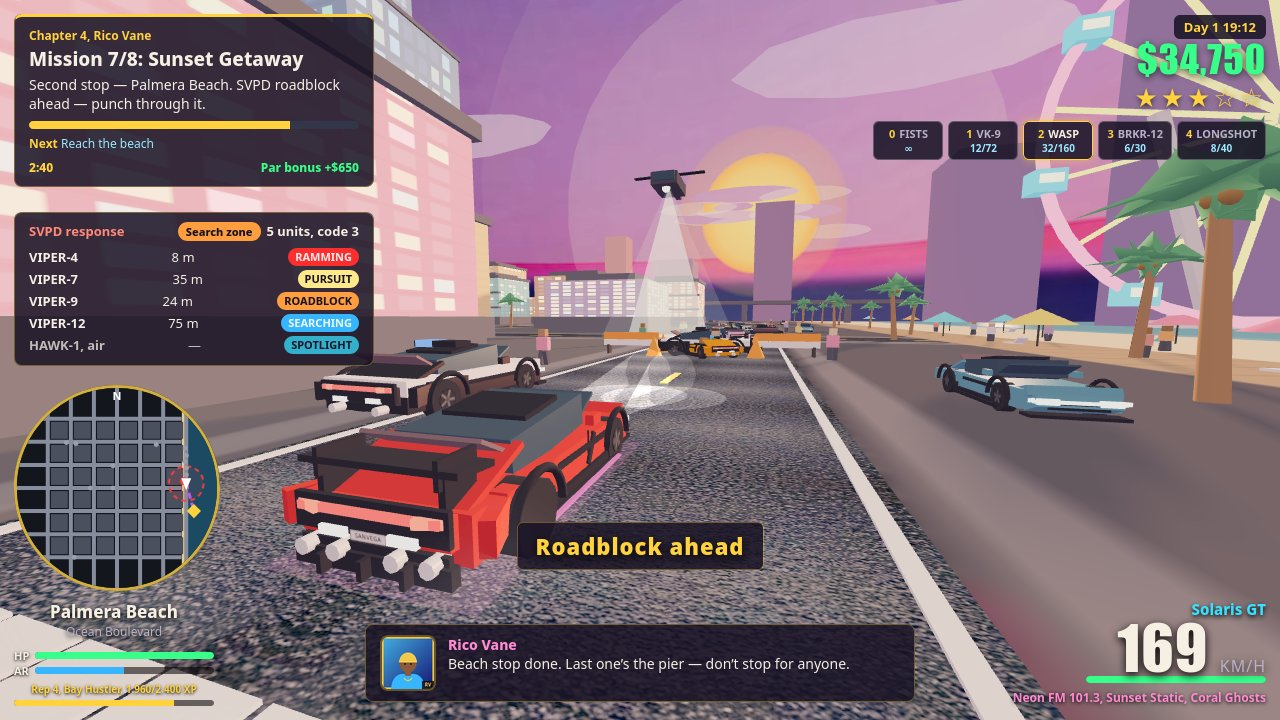
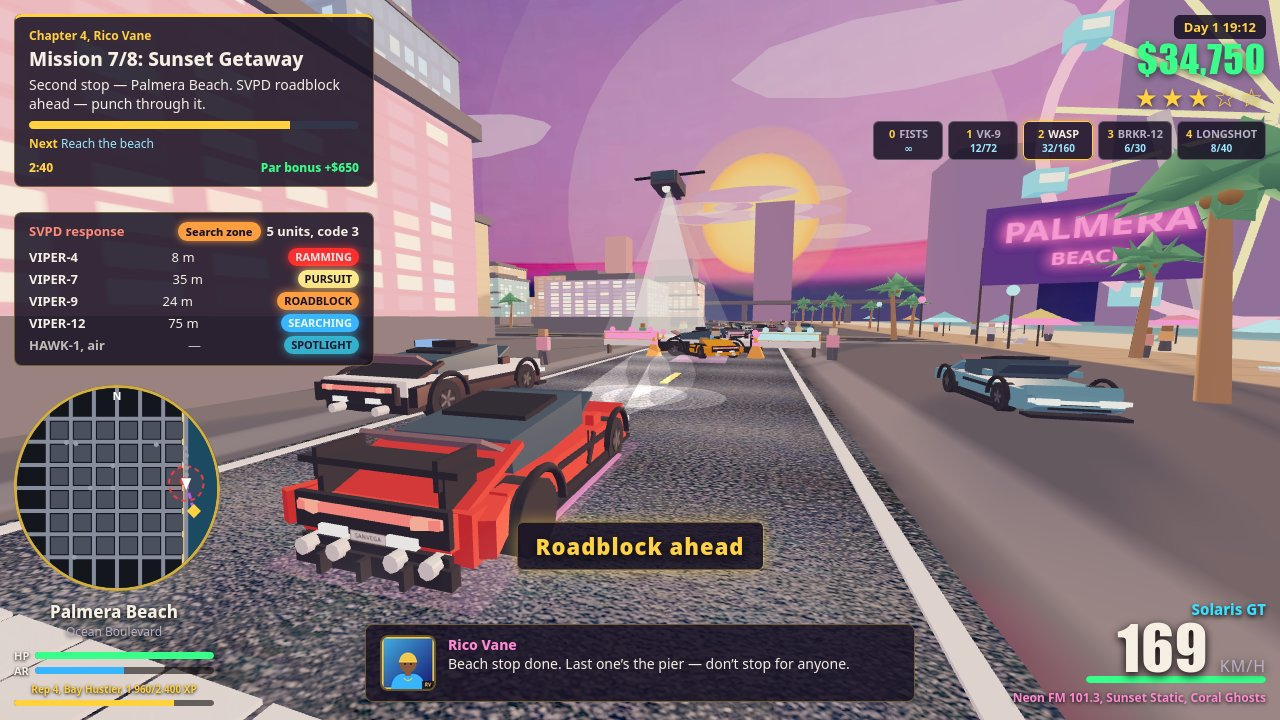
v9: neon styling for C1 elements

diff --git a/game/src/world.js b/game/src/world.js
@@ -828,6 +828,31 @@ export function createWorld(scene, seed, assets) {
   hotelSign.position.set(168, 14, 90);
   hotelSign.rotation.y = -Math.PI / 2;
   scene.add(hotelSign);
+  // v9-neon: PALMERA BEACH neon sign on the boardwalk edge, facing the
+  // road so the cover reads the beach by name, not just by umbrellas —
+  // pink neon on dark glass, same makeSignTexture helper as the other
+  // signs, on two dark poles. R3 (dream-loop R2: screen projection put
+  // the sign at x 1385 — off-frame right and edge-on, because it faced
+  // -x while the chase camera looks down the road): moved to (210, -52),
+  // 45 m ahead of the camera so it lands mid-frame, and turned to
+  // ry -0.35 so its face points at the approaching camera instead of
+  // straight across the road. Clear of parasol1 (207, -52 — its cone
+  // top is below the sign's bottom edge) and the wheel rim (z -60).
+  const beachSign = new THREE.Mesh(
+    new THREE.PlaneGeometry(14, 7),
+    new THREE.MeshBasicMaterial({ map: makeSignTexture('PALMERA', '#1a0b2e', '#ff2e88', 'BEACH') }),
+  );
+  beachSign.position.set(210, 9, -52);
+  beachSign.rotation.y = -0.35;
+  scene.add(beachSign);
+  for (const [ppx, ppz] of [[203.5, -54.5], [216.5, -49.5]]) {
+    const signPole = new THREE.Mesh(
+      new THREE.CylinderGeometry(0.09, 0.09, 9, 6),
+      new THREE.MeshLambertMaterial({ color: 0x222222 }),
+    );
+    signPole.position.set(ppx, 4.5, ppz);
+    scene.add(signPole);
+  }
 
   // Highway overpass across the north edge (z = -210): deck + pillars.
   const deckMat = new THREE.MeshLambertMaterial({ color: 0x3a3f4a });
@@ -924,12 +949,28 @@ export function createWorld(scene, seed, assets) {
   const umbrellaSpots = [];
   for (let z = -180; z <= 180; z += 45) umbrellaSpots.push([222, z]);
   for (let z = -96; z <= 24; z += 12) umbrellaSpots.push([216 + rng() * 10, z]);
+  // v9-neon: shared neon trim for the in-frame cluster umbrellas (pink /
+  // cyan alternating by index — no rng consumed, so the seeded world
+  // layout after this point does not shift). R2 (dream-loop R1: a flat
+  // torus at the cone rim is edge-on from the chase camera and invisible)
+  // — an open cone band wrapping the umbrella's lower slope, so the neon
+  // reads as a bright stripe on the canopy from the road.
+  const umbrellaTrimGeo = new THREE.CylinderGeometry(1.38, 2.3, 0.5, 8, 1, true);
+  const umbrellaTrimPink = new THREE.MeshBasicMaterial({ color: 0xff2e88, side: THREE.DoubleSide });
+  const umbrellaTrimCyan = new THREE.MeshBasicMaterial({ color: 0x37e0ff, side: THREE.DoubleSide });
   let umbrellaIdx = 0;
   for (const [ux, uz] of umbrellaSpots) {
     const umbrellaMat = new THREE.MeshLambertMaterial({ color: pick(rng, umbrellaColors), side: THREE.DoubleSide });
     const umb = new THREE.Mesh(new THREE.ConeGeometry(2.2, 1.2, 8), umbrellaMat);
     umb.position.set(ux, 2.4, uz);
     scene.add(umb);
+    // Neon band on every cluster umbrella (idx >= 9: the dense z -96..24
+    // band in the cover's sightline), so the beach reads neon, not flat.
+    if (umbrellaIdx >= 9) {
+      const trim = new THREE.Mesh(umbrellaTrimGeo, umbrellaIdx % 2 === 0 ? umbrellaTrimPink : umbrellaTrimCyan);
+      trim.position.set(ux, 2.05, uz);
+      scene.add(trim);
+    }
     const stick = new THREE.Mesh(new THREE.CylinderGeometry(0.06, 0.06, 2.4, 6), poleMat);
     stick.position.set(ux, 1.2, uz);
     scene.add(stick);
@@ -945,12 +986,23 @@ export function createWorld(scene, seed, assets) {
       back.position.set(ux - 2.6, 0.6, uz + 2.3);
       back.rotation.x = -0.6;
       scene.add(back);
+      // v9-neon: cyan neon strip along the seat's front edge.
+      const chairNeon = new THREE.Mesh(new THREE.BoxGeometry(0.72, 0.05, 0.08), umbrellaTrimCyan);
+      chairNeon.position.set(ux - 2.6, 0.44, uz + 0.35);
+      scene.add(chairNeon);
     }
     umbrellaIdx += 1;
   }
   // v9 R2: boardwalk parasols — three big umbrellas ON the boardwalk edge
   // (x 207), close to the road, so the beach reads in the mid-frame right
   // instead of only far on the sand. Chairs under two of them.
+  // v9-neon: neon band on every boardwalk parasol (trim colour alternates
+  // pink/cyan against the parasol colour) + neon lamp posts down the
+  // boardwalk edge so the boardwalk glows in the cover's mid-frame right.
+  // R2: band (open cone sleeve) instead of a flat rim torus — the torus
+  // was edge-on and invisible from the road.
+  const parasolTrimGeo = new THREE.CylinderGeometry(1.68, 2.7, 0.55, 8, 1, true);
+  let parasolIdx = 0;
   for (const [px, pz, pcolor] of [[207, -32, 0xff5e8a], [207, -52, 0xffd23e], [207, -72, 0x37e0ff]]) {
     const parasolMat = new THREE.MeshLambertMaterial({ color: pcolor, side: THREE.DoubleSide });
     const parasol = new THREE.Mesh(new THREE.ConeGeometry(2.6, 1.4, 8), parasolMat);
@@ -959,6 +1011,27 @@ export function createWorld(scene, seed, assets) {
     const pstick = new THREE.Mesh(new THREE.CylinderGeometry(0.07, 0.07, 2.6, 6), poleMat);
     pstick.position.set(px, 1.3, pz);
     scene.add(pstick);
+    const ptrim = new THREE.Mesh(parasolTrimGeo, parasolIdx % 2 === 0 ? umbrellaTrimCyan : umbrellaTrimPink);
+    ptrim.position.set(px, 2.175, pz);
+    scene.add(ptrim);
+    parasolIdx += 1;
+  }
+  // Boardwalk neon lamps: dark poles with glowing pink/cyan heads,
+  // staggered between the parasols (x 203, clear of the walkers at 207).
+  // R2: heads bigger (0.35 -> 0.45) so they read at contact-sheet scale;
+  // the z -28 slot moved to -18 (the PALMERA sign now stands at -28).
+  const lampHeadGeo = new THREE.SphereGeometry(0.45, 8, 6);
+  const lampPoleGeo = new THREE.CylinderGeometry(0.09, 0.09, 4.5, 6);
+  for (const [lx, lz, lmat] of [
+    [203, -18, umbrellaTrimPink], [203, -48, umbrellaTrimCyan],
+    [203, -68, umbrellaTrimPink], [203, -88, umbrellaTrimCyan],
+  ]) {
+    const lpole = new THREE.Mesh(lampPoleGeo, poleMat);
+    lpole.position.set(lx, 2.25, lz);
+    scene.add(lpole);
+    const lhead = new THREE.Mesh(lampHeadGeo, lmat);
+    lhead.position.set(lx, 4.7, lz);
+    scene.add(lhead);
   }
   for (const [cx, cz] of [[204.5, -30.5], [204.5, -50.5]]) {
     const chairMat2 = new THREE.MeshLambertMaterial({ color: 0xf2f2f2 });
@@ -971,6 +1044,10 @@ export function createWorld(scene, seed, assets) {
     back2.position.set(cx, 0.6, cz + 1.1);
     back2.rotation.x = -0.6;
     scene.add(back2);
+    // v9-neon: cyan neon strip along the seat's front edge.
+    const chairNeon2 = new THREE.Mesh(new THREE.BoxGeometry(0.72, 0.05, 0.08), umbrellaTrimCyan);
+    chairNeon2.position.set(cx, 0.44, cz - 0.85);
+    scene.add(chairNeon2);
   }
 
   // Parked cars along Ocean Boulevard + Neon Mile (static, same factory).

diff --git a/game/index.html b/game/index.html
@@ -37,6 +37,15 @@
   --map-bg: #23262e;
   --gold-ring: rgba(255, 210, 62, 0.8);
   --gold-glow: rgba(255, 210, 62, 0.5);
+  /* v9-neon: glow colours for the police state pills + sight chip — the
+     same hue as each pill's fill, so the neon reads as light, not a new
+     colour. All glow goes through tokens, like every other colour. */
+  --neon-red: rgba(255, 46, 46, 0.8);
+  --neon-amber: rgba(255, 158, 62, 0.8);
+  --neon-yellow: rgba(255, 233, 138, 0.8);
+  --neon-blue: rgba(55, 182, 255, 0.8);
+  --neon-cyan: rgba(55, 224, 255, 0.8);
+  --neon-grey: rgba(135, 141, 156, 0.8);
   --track: #33364a;
   --font-display: Impact, 'Arial Narrow', 'Liberation Sans Narrow', sans-serif;
   --font-body: system-ui, -apple-system, "Segoe UI", sans-serif;
@@ -71,20 +80,23 @@
   /* v9: sight chip — "In sight" (red) while any unit sees the player,
      "Search zone" (amber) once the trail goes cold. Sits left of the count. */
   #police-sight { font-size: 11px; font-weight: 800; padding: 2px 8px; border-radius: 10px; margin-right: 6px; }
-  #police-sight.sight-seen { background: var(--red); color: var(--white); }
-  #police-sight.sight-search { background: var(--amber); color: var(--ink); }
+  #police-sight.sight-seen { background: var(--red); color: var(--white); box-shadow: 0 0 8px var(--neon-red); }
+  #police-sight.sight-search { background: var(--amber); color: var(--ink); box-shadow: 0 0 8px var(--neon-amber); }
   .police-row { display: flex; justify-content: space-between; font-size: 13px; padding: 2px 0; }
   .police-row .callsign { font-weight: 700; }
   .police-row .state { color: var(--gold); font-weight: 700; }
   /* v9: one coloured pill per police state, so the mixed response reads
      at a glance (rank 1's RAMMING red / ROADBLOCK amber / PURSUIT pale
-     yellow). The class comes from the live mode — never staged text. */
-  .police-row .state-ramming { background: var(--red-bright); color: var(--white); border-radius: 10px; padding: 1px 7px; font-size: 11px; }
-  .police-row .state-roadblock { background: var(--amber); color: var(--ink); border-radius: 10px; padding: 1px 7px; font-size: 11px; }
-  .police-row .state-pursuit { background: var(--yellow-pale); color: var(--ink); border-radius: 10px; padding: 1px 7px; font-size: 11px; }
-  .police-row .state-searching { background: var(--blue); color: var(--white); border-radius: 10px; padding: 1px 7px; font-size: 11px; }
-  .police-row .state-patrol { background: var(--grey); color: var(--white); border-radius: 10px; padding: 1px 7px; font-size: 11px; }
-  .police-row .state-spotlight { background: var(--cyan); color: var(--ink); border-radius: 10px; padding: 1px 7px; font-size: 11px; }
+     yellow). The class comes from the live mode — never staged text.
+     v9-neon: each pill glows in its own state colour (box-shadow through
+     the --neon-* tokens) so the response panel reads as neon signage,
+     consistent with the city — text contrast unchanged (same fills). */
+  .police-row .state-ramming { background: var(--red-bright); color: var(--white); border-radius: 10px; padding: 1px 7px; font-size: 11px; box-shadow: 0 0 10px var(--neon-red); }
+  .police-row .state-roadblock { background: var(--amber); color: var(--ink); border-radius: 10px; padding: 1px 7px; font-size: 11px; box-shadow: 0 0 10px var(--neon-amber); }
+  .police-row .state-pursuit { background: var(--yellow-pale); color: var(--ink); border-radius: 10px; padding: 1px 7px; font-size: 11px; box-shadow: 0 0 10px var(--neon-yellow); }
+  .police-row .state-searching { background: var(--blue); color: var(--white); border-radius: 10px; padding: 1px 7px; font-size: 11px; box-shadow: 0 0 10px var(--neon-blue); }
+  .police-row .state-patrol { background: var(--grey); color: var(--white); border-radius: 10px; padding: 1px 7px; font-size: 11px; box-shadow: 0 0 10px var(--neon-grey); }
+  .police-row .state-spotlight { background: var(--cyan); color: var(--ink); border-radius: 10px; padding: 1px 7px; font-size: 11px; box-shadow: 0 0 10px var(--neon-cyan); }
   .police-row.dim { opacity: 0.75; }
   /* Top-right: clock, money, wanted, weapon */
   #top-right { position: absolute; top: 14px; right: 14px; text-align: right; }
@@ -143,7 +155,7 @@
      ("SPOTLIGHT" was covered) in the combat shot. Bottom-centre is clear
      of the mission/police panels (left), minimap (bottom-left), speedo
      (bottom-right) and crosshair (centre). */
-  #hud-banner { position: absolute; left: 50%; bottom: 150px; transform: translateX(-50%); font-size: 22px; font-weight: 900; letter-spacing: 1px; color: var(--gold); text-shadow: 0 3px 12px var(--black); background: var(--panel); border: 1px solid var(--line); border-radius: 6px; padding: 8px 18px; display: none; white-space: nowrap; }
+  #hud-banner { position: absolute; left: 50%; bottom: 150px; transform: translateX(-50%); font-size: 22px; font-weight: 900; letter-spacing: 1px; color: var(--gold); text-shadow: 0 3px 12px var(--black); background: var(--panel); border: 1px solid var(--line); border-radius: 6px; padding: 8px 18px; display: none; white-space: nowrap; box-shadow: 0 0 16px var(--gold-glow); }
   /* Full screens */
   .screen { position: fixed; inset: 0; z-index: 10; display: flex; flex-direction: column; align-items: center; justify-content: center; text-align: center; color: var(--paper); background: var(--screen-bg); }
   .screen > * { position: relative; z-index: 1; }

diff --git a/game/src/police.js b/game/src/police.js
@@ -103,11 +103,21 @@ export function createPolice(scene, world) {
   // + two barriers close the whole 11 m width. Cones mark the edges.
   // v9 R2: barriers bigger (2.4 -> 3.2 long) and turned across the road —
   // the R1 bars ran along the road edge and read as thin sticks.
+  // v9-neon: the block is part of NEON DISTRICT, not a plain roadwork
+  // prop — each barrier carries a neon strip along its top bar + three
+  // neon lamp bulbs (pink on one side, cyan on the other, city palette),
+  // each cone gets a neon tip beacon, and a soft pink glow strip lies on
+  // the road under the block. All MeshBasicMaterial (unlit, reads at
+  // sunset). Collision unchanged: these are children of the unit mesh,
+  // the physical block is still the unit itself (push-out + speed ÷2).
   const roadblockProps = new THREE.Group();
   {
     const barrierMat = new THREE.MeshLambertMaterial({ color: 0xff6a1a });
     const stripeMat = new THREE.MeshLambertMaterial({ color: 0xf2f2f2 });
     const legMat = new THREE.MeshLambertMaterial({ color: 0x222222 });
+    const neonPinkMat = new THREE.MeshBasicMaterial({ color: 0xff2e88 });
+    const neonCyanMat = new THREE.MeshBasicMaterial({ color: 0x37e0ff });
+    const bulbGeo = new THREE.SphereGeometry(0.17, 8, 6);
     for (const side of [-1, 1]) {
       const barrier = new THREE.Group();
       const top = new THREE.Mesh(new THREE.BoxGeometry(0.14, 0.4, 3.2), barrierMat);
@@ -119,6 +129,26 @@ export function createPolice(scene, world) {
       const legR = legL.clone();
       legR.position.z = 1.3;
       barrier.add(top, stripe, legL, legR);
+      // Neon strip along the top bar + three lamp bulbs on top of it.
+      const neonMat = side < 0 ? neonPinkMat : neonCyanMat;
+      const neonStrip = new THREE.Mesh(new THREE.BoxGeometry(0.16, 0.08, 3.2), neonMat);
+      neonStrip.position.y = 1.24;
+      barrier.add(neonStrip);
+      for (const bz of [-1.1, 0, 1.1]) {
+        const bulb = new THREE.Mesh(bulbGeo, neonMat);
+        bulb.position.set(0, 1.36, bz);
+        barrier.add(bulb);
+      }
+      // v9-neon R2 (dream-loop R1: the top strip is edge-on from the
+      // chase camera and the bulbs hide behind the bar — the block read
+      // plain orange/white). Neon face strips on BOTH vertical faces of
+      // the top bar, so the glow faces the approaching car whichever way
+      // the unit parked, plus a glowing band around every cone.
+      for (const fx of [-0.1, 0.1]) {
+        const face = new THREE.Mesh(new THREE.BoxGeometry(0.06, 0.34, 3.0), neonMat);
+        face.position.set(fx, 1.0, 0);
+        barrier.add(face);
+      }
       barrier.position.set(0, 0, side * 4.2);
       roadblockProps.add(barrier);
     }
@@ -127,7 +157,22 @@ export function createPolice(scene, world) {
       const cone = new THREE.Mesh(new THREE.ConeGeometry(0.45, 1.1, 8), coneMat);
       cone.position.set(cx, 0.55, cz);
       roadblockProps.add(cone);
+      // Neon band around the cone's waist + tip beacon on every cone.
+      const band = new THREE.Mesh(new THREE.CylinderGeometry(0.2, 0.2, 0.16, 8), neonPinkMat);
+      band.position.set(cx, 0.7, cz);
+      roadblockProps.add(band);
+      const beacon = new THREE.Mesh(bulbGeo, neonPinkMat);
+      beacon.position.set(cx, 1.18, cz);
+      roadblockProps.add(beacon);
     }
+    // Soft pink glow strip on the road under the block.
+    const glow = new THREE.Mesh(
+      new THREE.PlaneGeometry(9, 2.5),
+      new THREE.MeshBasicMaterial({ color: 0xff2e88, transparent: true, opacity: 0.3, blending: THREE.AdditiveBlending, depthWrite: false }),
+    );
+    glow.rotation.x = -Math.PI / 2;
+    glow.position.y = 0.05;
+    roadblockProps.add(glow);
   }
   roadblockProps.visible = false;
   unit3.add(roadblockProps);

diff --git a/main.ts b/main.ts
@@ -34,7 +34,7 @@ if (existsSync(join(here, 'screenshots'))) cpSync(join(here, 'screenshots'), joi
 // (1.960 / 2.400 XP), mission timer 2:40 + PAR BONUS +$650, combat staged
 // at REP 4, warm orange sun, textured road, varied building windows,
 // sculpt pass 2 on the Solaris GT (steeper wedge, brighter headlights).
-const ENTRY_VERSION = 'v9 — C1 mixed police response: live RAMMING / PURSUIT / ROADBLOCK / SEARCHING states per unit (coloured HUD pills + In sight / Search zone chip + search-zone circle on the minimap), VIPER-9 roadblock car that parks across the road with barricades and physically blocks the player (latched anchor, collision + condition cost), living beach (colourful umbrellas + lounge chairs + beach/boardwalk walkers + driven orange convertible traffic), roadblock mission objective + banner';
+const ENTRY_VERSION = 'v9 — C1 mixed police response: live RAMMING / PURSUIT / ROADBLOCK / SEARCHING states per unit (coloured HUD pills + In sight / Search zone chip + search-zone circle on the minimap), VIPER-9 roadblock car that parks across the road with barricades and physically blocks the player (latched anchor, collision + condition cost), living beach (colourful umbrellas + lounge chairs + beach/boardwalk walkers + driven orange convertible traffic), roadblock mission objective + banner; neon styling for the new C1 elements: neon face strips + lamp bulbs + cone bands + glow strip on the roadblock, PALMERA BEACH neon sign + neon bands on beach umbrellas/parasols + boardwalk neon lamps, neon glow on the police state pills + sight chip';
 writeFileSync(
   join(out, 'dossier.json'),
   buildDossier(out, {
